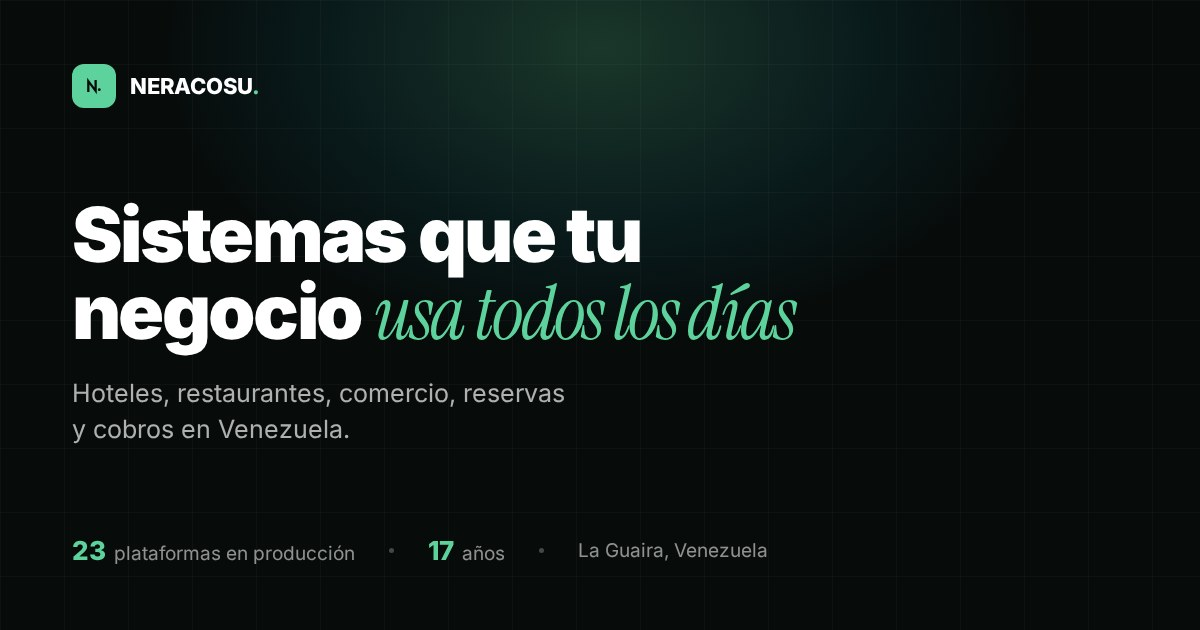
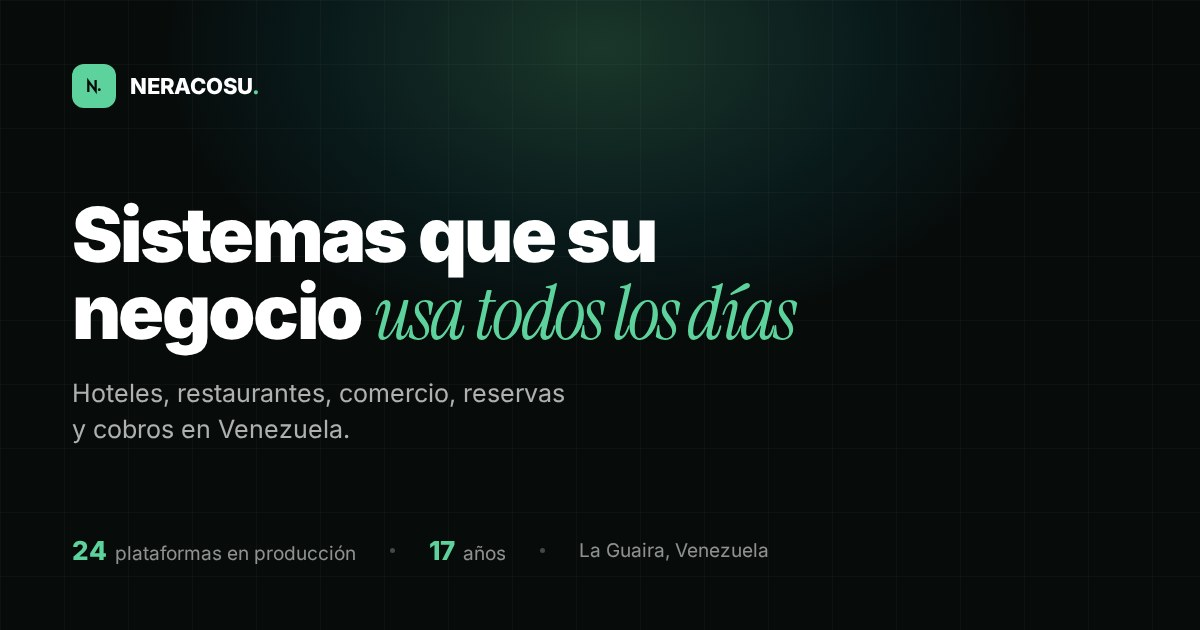
Atalaya en productos propios y 24 plataformas en produccion
- La home suma Atalaya Monitor Server como tercer producto propio (#productos),
  con enlace a /atalaya/.
- 23 -> 24 plataformas en la home (meta, OG, Twitter, contador, portafolio,
  capacidades, cierre), /para/ y /servicios/sistemas-de-gestion.html.
- og-image.jpg regenerada desde build-para/og-card.html: 24 y trato de usted.
- CLAUDE.md: donde vive el 24 y que /atalaya/ se genera desde /opt/atalaya.

diff --git a/index.html b/index.html
@@ -7,7 +7,7 @@
 
   <!-- Primary Meta Tags -->
   <title>Desarrollo de Software y Sistemas a Medida | Venezuela</title>
-  <meta name="description" content="Sistemas a medida para hoteles, restaurantes, comercio, reservas y cobros en Venezuela. 23 plataformas en producción. Precios publicados. La Guaira.">
+  <meta name="description" content="Sistemas a medida para hoteles, restaurantes, comercio, reservas y cobros en Venezuela. 24 plataformas en producción. Precios publicados. La Guaira.">
   <meta name="keywords" content="desarrollador web venezuela, programador la guaira, crear página web venezuela, desarrollo software vargas, tienda online venezuela, aplicaciones móviles, ciberseguridad, full stack developer, wordpress venezuela, react developer venezuela">
   <meta name="author" content="Neri Rafael Colón Suárez">
   <meta name="robots" content="index, follow">
@@ -19,7 +19,7 @@
 
   <!-- Open Graph -->
   <meta property="og:title" content="Desarrollo de Software y Sistemas a Medida | Venezuela">
-  <meta property="og:description" content="Sistemas a medida para hoteles, restaurantes, comercio, reservas y cobros en Venezuela. 23 plataformas en producción. Precios publicados. La Guaira.">
+  <meta property="og:description" content="Sistemas a medida para hoteles, restaurantes, comercio, reservas y cobros en Venezuela. 24 plataformas en producción. Precios publicados. La Guaira.">
   <meta property="og:image" content="https://neracosu.com/assets/img/og-image.jpg">
   <meta property="og:image:width" content="1200">
   <meta property="og:image:height" content="630">
@@ -33,7 +33,7 @@
   <!-- Twitter Card -->
   <meta name="twitter:card" content="summary_large_image">
   <meta name="twitter:title" content="Desarrollo de Software y Sistemas a Medida | Venezuela">
-  <meta name="twitter:description" content="Sistemas a medida para hoteles, restaurantes, comercio, reservas y cobros en Venezuela. 23 plataformas en producción. Precios publicados. La Guaira.">
+  <meta name="twitter:description" content="Sistemas a medida para hoteles, restaurantes, comercio, reservas y cobros en Venezuela. 24 plataformas en producción. Precios publicados. La Guaira.">
   <meta name="twitter:image" content="https://neracosu.com/assets/img/og-image.jpg">
 
   <!-- Hreflang -->
@@ -273,7 +273,7 @@
         </div>
 
         <div class="hero-stats fade-up" style="animation-delay:1.2s;">
-          <div><div class="v"><span data-counter="23">23</span></div><div class="l">Plataformas en producción</div></div>
+          <div><div class="v"><span data-counter="24">24</span></div><div class="l">Plataformas en producción</div></div>
           <div><div class="v"><span data-counter="17">17</span></div><div class="l">Años de experiencia</div></div>
           <div><div class="v"><span data-counter="5">5</span></div><div class="l">Países atendidos</div></div>
           <div><div class="v">24h</div><div class="l">Respuesta promedio</div></div>
@@ -702,7 +702,7 @@
       <div class="container">
         <div style="max-width:720px;margin-bottom:48px;">
           <span class="eyebrow">Producto propio</span>
-          <h2 class="section-title">Dos que no me encargó nadie: los <span class="font-serif-italic" style="color:#5ed29c;text-transform:lowercase;">construí y los opero</span></h2>
+          <h2 class="section-title">Tres que no me encargó nadie: los <span class="font-serif-italic" style="color:#5ed29c;text-transform:lowercase;">construí y los opero</span></h2>
           <p class="section-subtitle">
             La diferencia con un encargo es que acá también me toca el sostén: los servidores, los clientes que
             escriben a las once de la noche y las decisiones de producto. Es lo que hace que sepa lo que cuesta
@@ -731,6 +731,16 @@
             </p>
             <span class="modulo-desde">soporte.vipsoft.cloud</span>
           </a>
+          <a class="modulo" href="/atalaya/">
+            <span class="num">MONITOR EN VIVO</span>
+            <h3>Atalaya Monitor Server · todo en una pantalla</h3>
+            <p>
+              Junta servidores, hostings, sitios WordPress, Vercel, Supabase, GitHub y agentes de Claude Code en
+              una sola pantalla en vivo con temas de pixel art, pensada para el TV de la oficina. Solo mira, nunca
+              cambia nada. Vigila este mismo servidor todos los días y su versión en la nube está en beta por invitación.
+            </p>
+            <span class="modulo-desde">neracosu.com/atalaya</span>
+          </a>
         </div>
       </div>
     </section>
@@ -741,7 +751,7 @@
           <div style="max-width:720px;">
             <span class="eyebrow">Mi trabajo</span>
             <h2 class="section-title">21 plataformas que me <span class="font-serif-italic" style="color:#5ed29c;text-transform:lowercase;">encargaron</span></h2>
-            <p class="section-subtitle">Ecosistema turístico, deportivo y de entretenimiento VIP en La Guaira, Venezuela, más el portafolio internacional. Todas son sistemas reales operando 24/7, salvo la de logística aduanera, que está construida y en demostración. <strong style="color:#fff;">ArmorPay y Soporte Vipsoft no están en esta lista</strong> porque no me los encargó nadie: están <a href="#productos" style="color:#5ed29c;">acá arriba</a>, en productos propios. Entre las dos listas, 23 en producción.</p>
+            <p class="section-subtitle">Ecosistema turístico, deportivo y de entretenimiento VIP en La Guaira, Venezuela, más el portafolio internacional. Todas son sistemas reales operando 24/7, salvo la de logística aduanera, que está construida y en demostración. <strong style="color:#fff;">ArmorPay, Soporte Vipsoft y Atalaya no están en esta lista</strong> porque no me los encargó nadie: están <a href="#productos" style="color:#5ed29c;">acá arriba</a>, en productos propios. Entre las dos listas, 24 en producción.</p>
           </div>
           <a href="/hoja-de-vida.html" class="btn-ghost">
             Ver hoja de vida completa
@@ -1284,7 +1294,7 @@
       <div class="container">
         <div style="max-width:760px;margin-bottom:64px;">
           <span class="eyebrow">Hoja de Vida</span>
-          <h2 class="section-title">17 años · 3 vínculos vigentes · 23 plataformas <span class="font-serif-italic" style="color:#5ed29c;text-transform:lowercase;">en producción</span></h2>
+          <h2 class="section-title">17 años · 3 vínculos vigentes · 24 plataformas <span class="font-serif-italic" style="color:#5ed29c;text-transform:lowercase;">en producción</span></h2>
           <p class="section-subtitle">Mi trabajo se organiza en 6 grandes capacidades técnicas que se cruzan entre proyectos. Cada bloque tiene casos reales detrás.</p>
         </div>
 
@@ -1581,7 +1591,7 @@
         </div>
 
         <div class="metricas" style="margin-bottom:40px;">
-          <div class="metrica"><div class="v">23</div><div class="l">Plataformas en producción, no en portafolio</div></div>
+          <div class="metrica"><div class="v">24</div><div class="l">Plataformas en producción, no en portafolio</div></div>
           <div class="metrica"><div class="v">+700</div><div class="l">Rutas de API sosteniendo operaciones reales</div></div>
           <div class="metrica"><div class="v">2.148</div><div class="l">Registros migrados de un sistema a otro, sin perder uno</div></div>
           <div class="metrica"><div class="v">1.011</div><div class="l">Pruebas automáticas antes de cada actualización</div></div>

diff --git a/servicios/sistemas-de-gestion.html b/servicios/sistemas-de-gestion.html
@@ -4,14 +4,14 @@
   <meta charset="UTF-8">
   <meta name="viewport" content="width=device-width, initial-scale=1.0">
   <title>Sistemas de Gestión a Medida en Venezuela | ERP y CRM</title>
-  <meta name="description" content="Sistemas hechos para cómo trabaja su negocio: inventario, caja, personal, reportes e integraciones. En producción en 23 plataformas.">
+  <meta name="description" content="Sistemas hechos para cómo trabaja su negocio: inventario, caja, personal, reportes e integraciones. En producción en 24 plataformas.">
   <meta name="author" content="Neri Rafael Colón Suárez">
   <meta name="robots" content="index, follow">
   <link rel="canonical" href="https://neracosu.com/servicios/sistemas-de-gestion.html">
 
   <!-- Open Graph -->
   <meta property="og:title" content="Sistemas de Gestión a Medida en Venezuela | ERP y CRM">
-  <meta property="og:description" content="Sistemas hechos para cómo trabaja su negocio: inventario, caja, personal, reportes e integraciones. En producción en 23 plataformas.">
+  <meta property="og:description" content="Sistemas hechos para cómo trabaja su negocio: inventario, caja, personal, reportes e integraciones. En producción en 24 plataformas.">
   <meta property="og:url" content="https://neracosu.com/servicios/sistemas-de-gestion.html">
   <meta property="og:image" content="https://neracosu.com/assets/img/og-image.jpg">
   <meta property="og:image:width" content="1200">
@@ -25,7 +25,7 @@
   <!-- Twitter Card -->
   <meta name="twitter:card" content="summary_large_image">
   <meta name="twitter:title" content="Sistemas de Gestión a Medida en Venezuela | ERP y CRM">
-  <meta name="twitter:description" content="Sistemas hechos para cómo trabaja su negocio: inventario, caja, personal, reportes e integraciones. En producción en 23 plataformas.">
+  <meta name="twitter:description" content="Sistemas hechos para cómo trabaja su negocio: inventario, caja, personal, reportes e integraciones. En producción en 24 plataformas.">
   <meta name="twitter:image" content="https://neracosu.com/assets/img/og-image.jpg">
 
   <link rel="manifest" href="/site.webmanifest">

diff --git a/para/index.html b/para/index.html
@@ -211,7 +211,7 @@
         </div>
 
         <div class="proof-strip">
-          <div><div class="v">23</div><div class="l">Plataformas en producción</div></div>
+          <div><div class="v">24</div><div class="l">Plataformas en producción</div></div>
           <div><div class="v">+700</div><div class="l">Rutas de API sosteniendo operaciones reales</div></div>
           <div><div class="v">17</div><div class="l">Años construyendo software</div></div>
           <div><div class="v">5</div><div class="l">Países atendidos</div></div>

diff --git a/CLAUDE.md b/CLAUDE.md
@@ -28,6 +28,26 @@ de «desde 2011» a **«desde 2009»**, que es lo único coherente con 17 años.
 Consultores)**. Con 17 años quedan 2009–2011 sin respaldo visible. Si alguien
 resta, ve el hueco. Hay que agregar esa entrada al CV o dejar el pie sin año.
 
+## `/atalaya/` se genera: no se edita aquí
+
+La página de Atalaya Monitor Server y sus guías salen de `/opt/atalaya/site/`
+(repo de root) con `node scripts/export-site.js`, que reemplaza la carpeta
+entera. Un cambio hecho directo en `public_html/atalaya/` se pierde en el
+próximo export: ya pasó el 2026-09-26. Cada HTML lo avisa en la línea 2. Desde
+`neracosu` no hay permiso de escritura en `/opt/atalaya`: dejar un parche en
+`~/` y pedírselo a la sesión de root.
+
+## Plataformas en producción: 24
+
+Desde el 2026-09-26 son **24** (antes 23): 21 encargos del portafolio más tres
+productos propios en `#productos` (ArmorPay, Soporte Vipsoft y Atalaya Monitor
+Server). El número vive en `index.html` (meta, OG, Twitter, contador
+`data-counter="24"`, el texto del portafolio, el título de capacidades y la
+métrica del cierre), `para/index.html` (y su fuente `build-para/body-index.html`),
+`servicios/sistemas-de-gestion.html`, `build-para/seo.py` y la imagen
+`assets/img/og-image.jpg`, que se renderiza desde `build-para/og-card.html`
+con Chromium headless. Si cambia, cambia en todos.
+
 ## Marca
 
 La marca es **NERACOSU**, no «Neri.dev». El logotipo se escribe `NERACOSU` con
